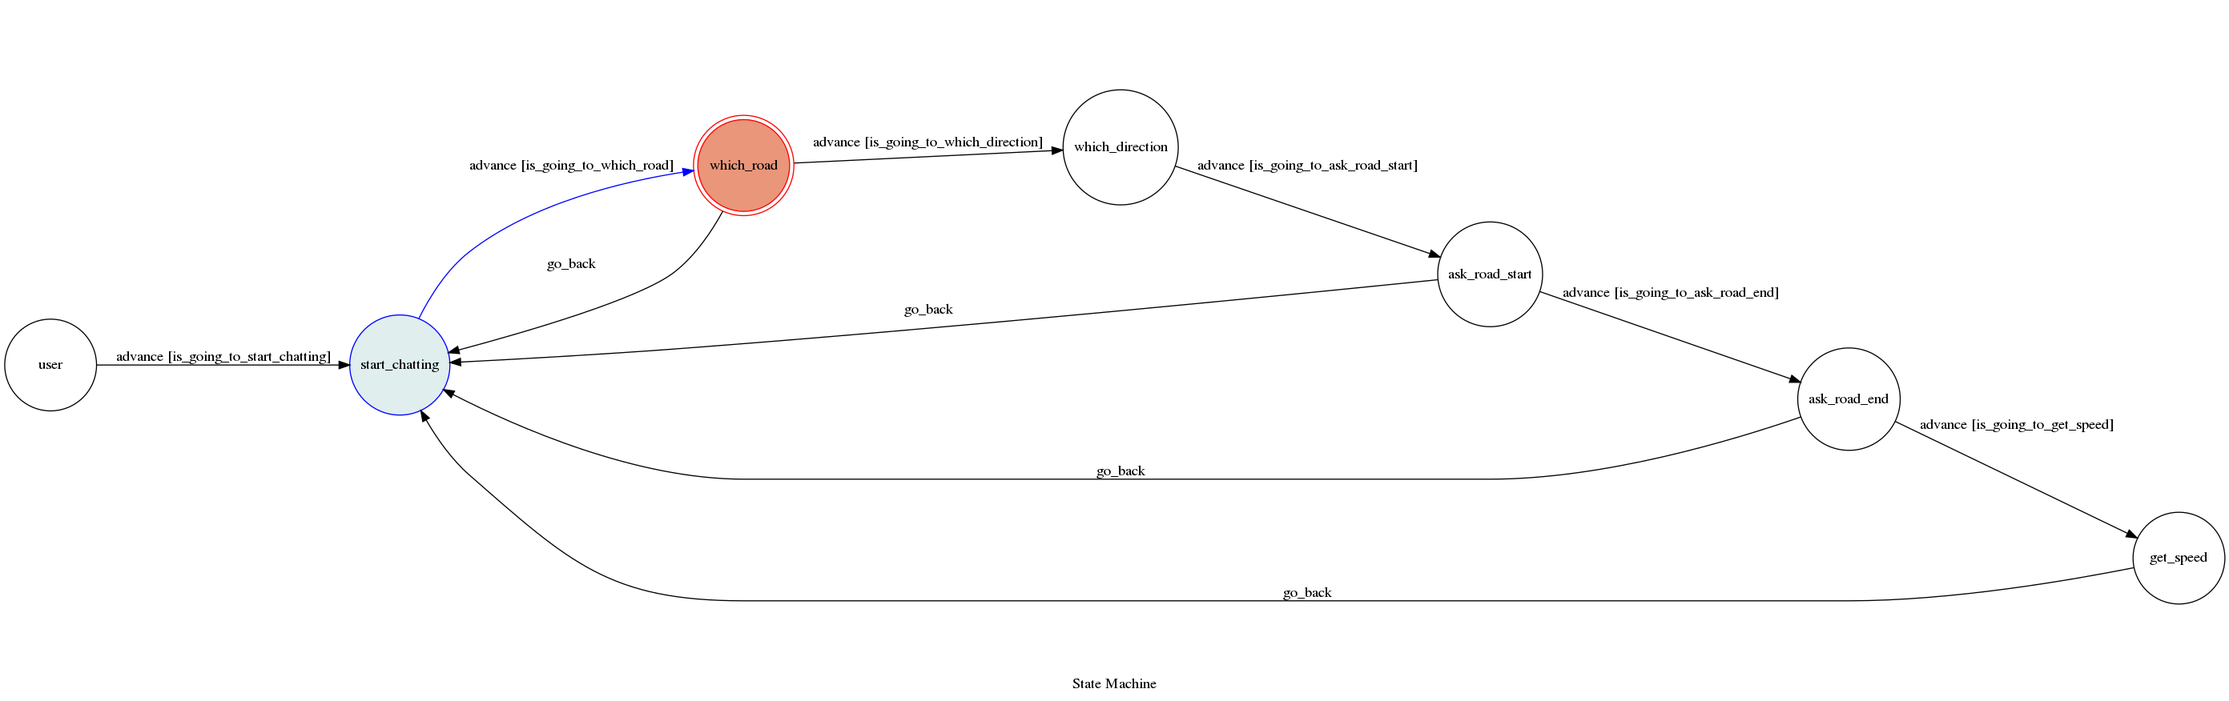
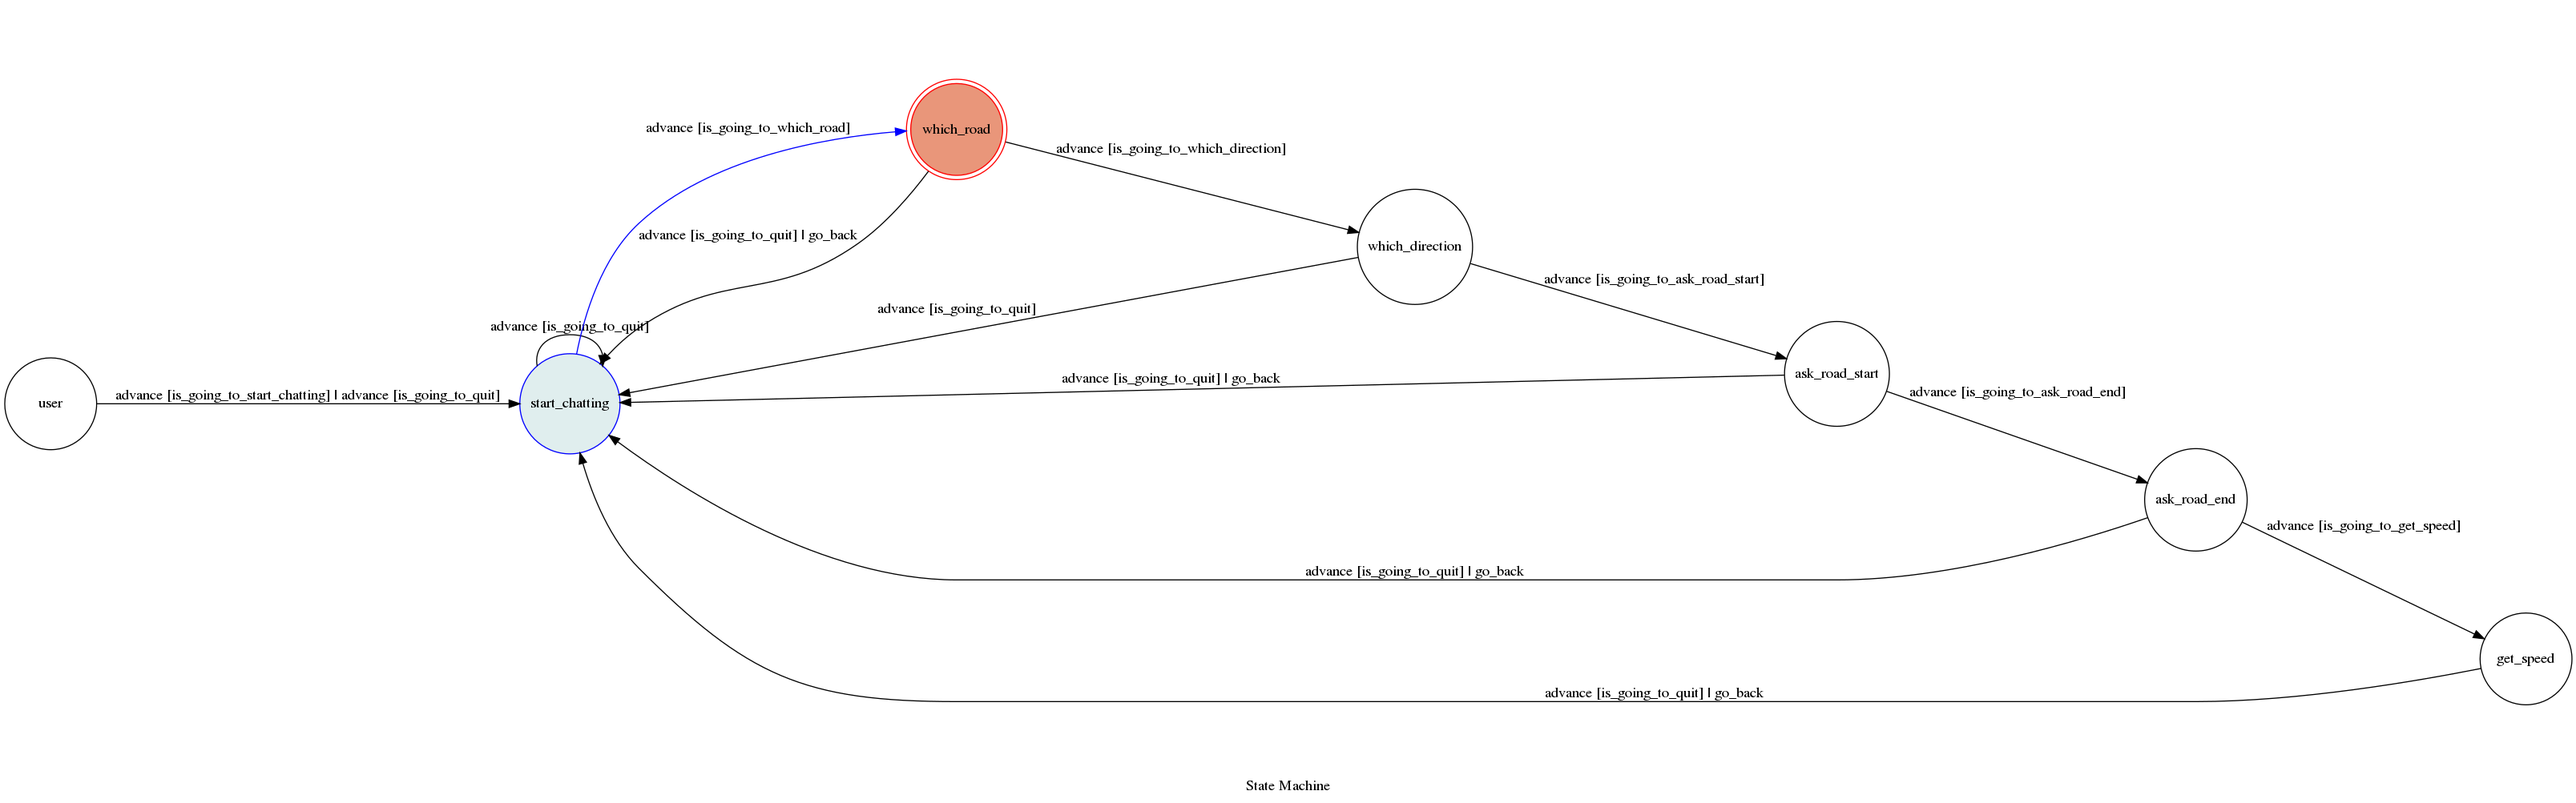
add quit

diff --git a/fsm.py b/fsm.py
@@ -12,7 +12,6 @@ def GetHighwayInfo(highway_id, direction_id):
         'section_average_speed': [ x['section_average_speed'] for x in response if x['directionid'] == direction_id],
         'end_location':          [ x['end_location'] for x in response if x['directionid'] == direction_id],
     }
-    print(highway_info)
     return highway_info
 
 # def GetHighWaySpeed(direction, start_location, end_location, heighway_info):
@@ -27,6 +26,12 @@ class TocMachine(GraphMachine):
         self.highway_id     = -1
         self.direction      = ""
         self.highway_info   = []
+
+    def is_going_to_quit(self, event):
+        text = event.message.text
+        if any(x in text.lower() for x in ['exit', 'quit', '離開']):
+            return True
+        return False
     
     def is_going_to_start_chatting(self, event):
         text = event.message.text
@@ -82,6 +87,12 @@ class TocMachine(GraphMachine):
 
         reply_token = event.reply_token
         send_text_message(reply_token, "輸入任意字開始查詢") 
+
+    def on_enter_quit(self, event):
+        print("I'm entering which_road")
+
+        reply_token = event.reply_token
+        send_text_message(reply_token, "請問你要查詢哪條國道？")
 
     def on_enter_which_road(self, event):
         print("I'm entering which_road")

diff --git a/app.py b/app.py
@@ -57,6 +57,12 @@ machine = TocMachine(
             "conditions": "is_going_to_get_speed",
         },
         {
+            "trigger": "advance",
+            "source": ["user", "start_chatting","which_road","which_direction", "ask_road_start", "ask_road_end", "get_speed"],
+            "dest": "start_chatting",
+            "conditions": "is_going_to_quit",    
+        },
+        {
             "trigger": "go_back", 
             "source": ["ask_road_start", "ask_road_end", "which_road", "get_speed"], 
             "dest": "start_chatting"
